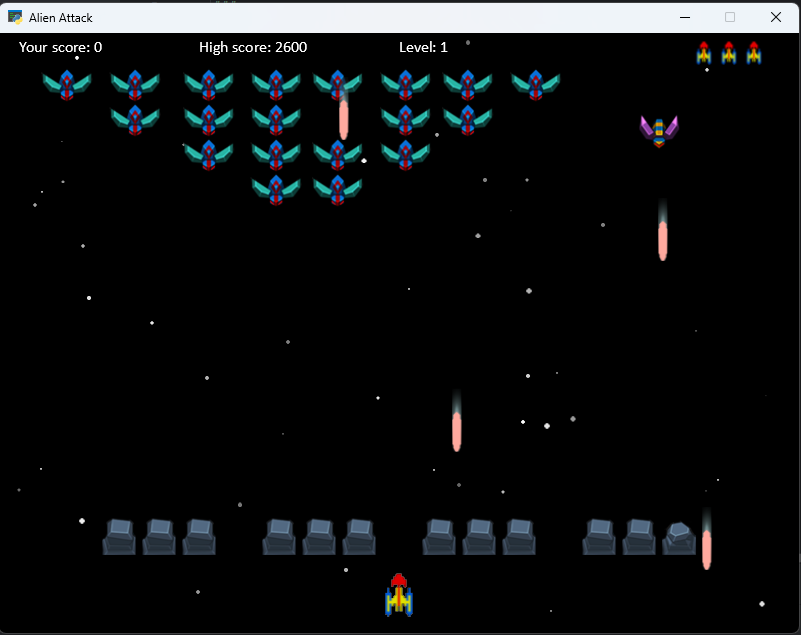
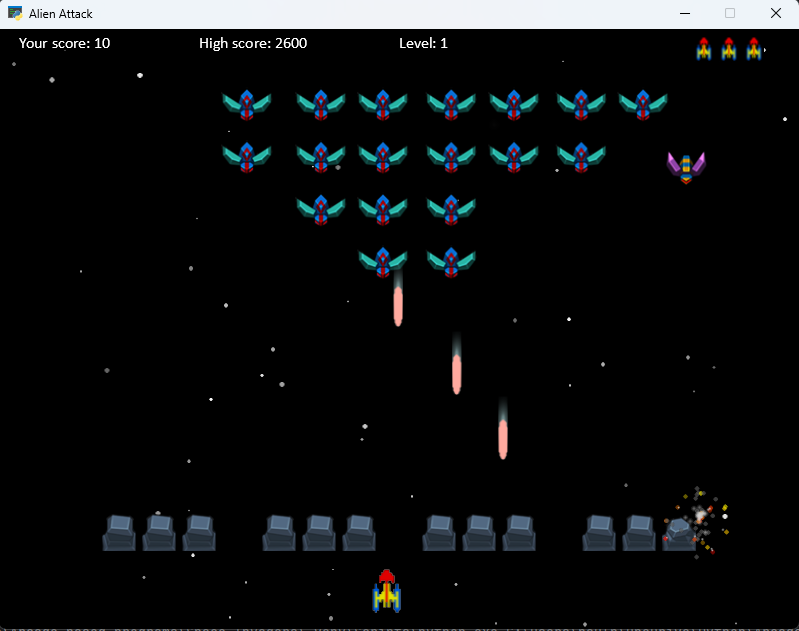
Updated initial alien positions

diff --git a/alien.py b/alien.py
@@ -47,7 +47,7 @@ class Alien(arcade.Sprite):
         if atype == Alien.NORMAL:
             """ initialise at row and column """
             super().__init__(self.normal_flap_0)
-            self.center_y = Const.WINDOW_HEIGHT - start_row * self.height
+            self.center_y = Const.WINDOW_HEIGHT - start_row * self.height * 1.5
             self.center_x = 175 + col_number * self.width * 1.25
             if Alien.moving:
                 self.change_x = Alien.speed
@@ -106,7 +106,7 @@ class Alien(arcade.Sprite):
     def move_down(self):
         """ used when reached side of screen move down and reverse direction """
         self.change_x *= -1
-        self.center_y -= self.height // 2
+        self.center_y -= self.height / 1.5
         if self.center_y < self.height / 2:
             self.kill()
 
